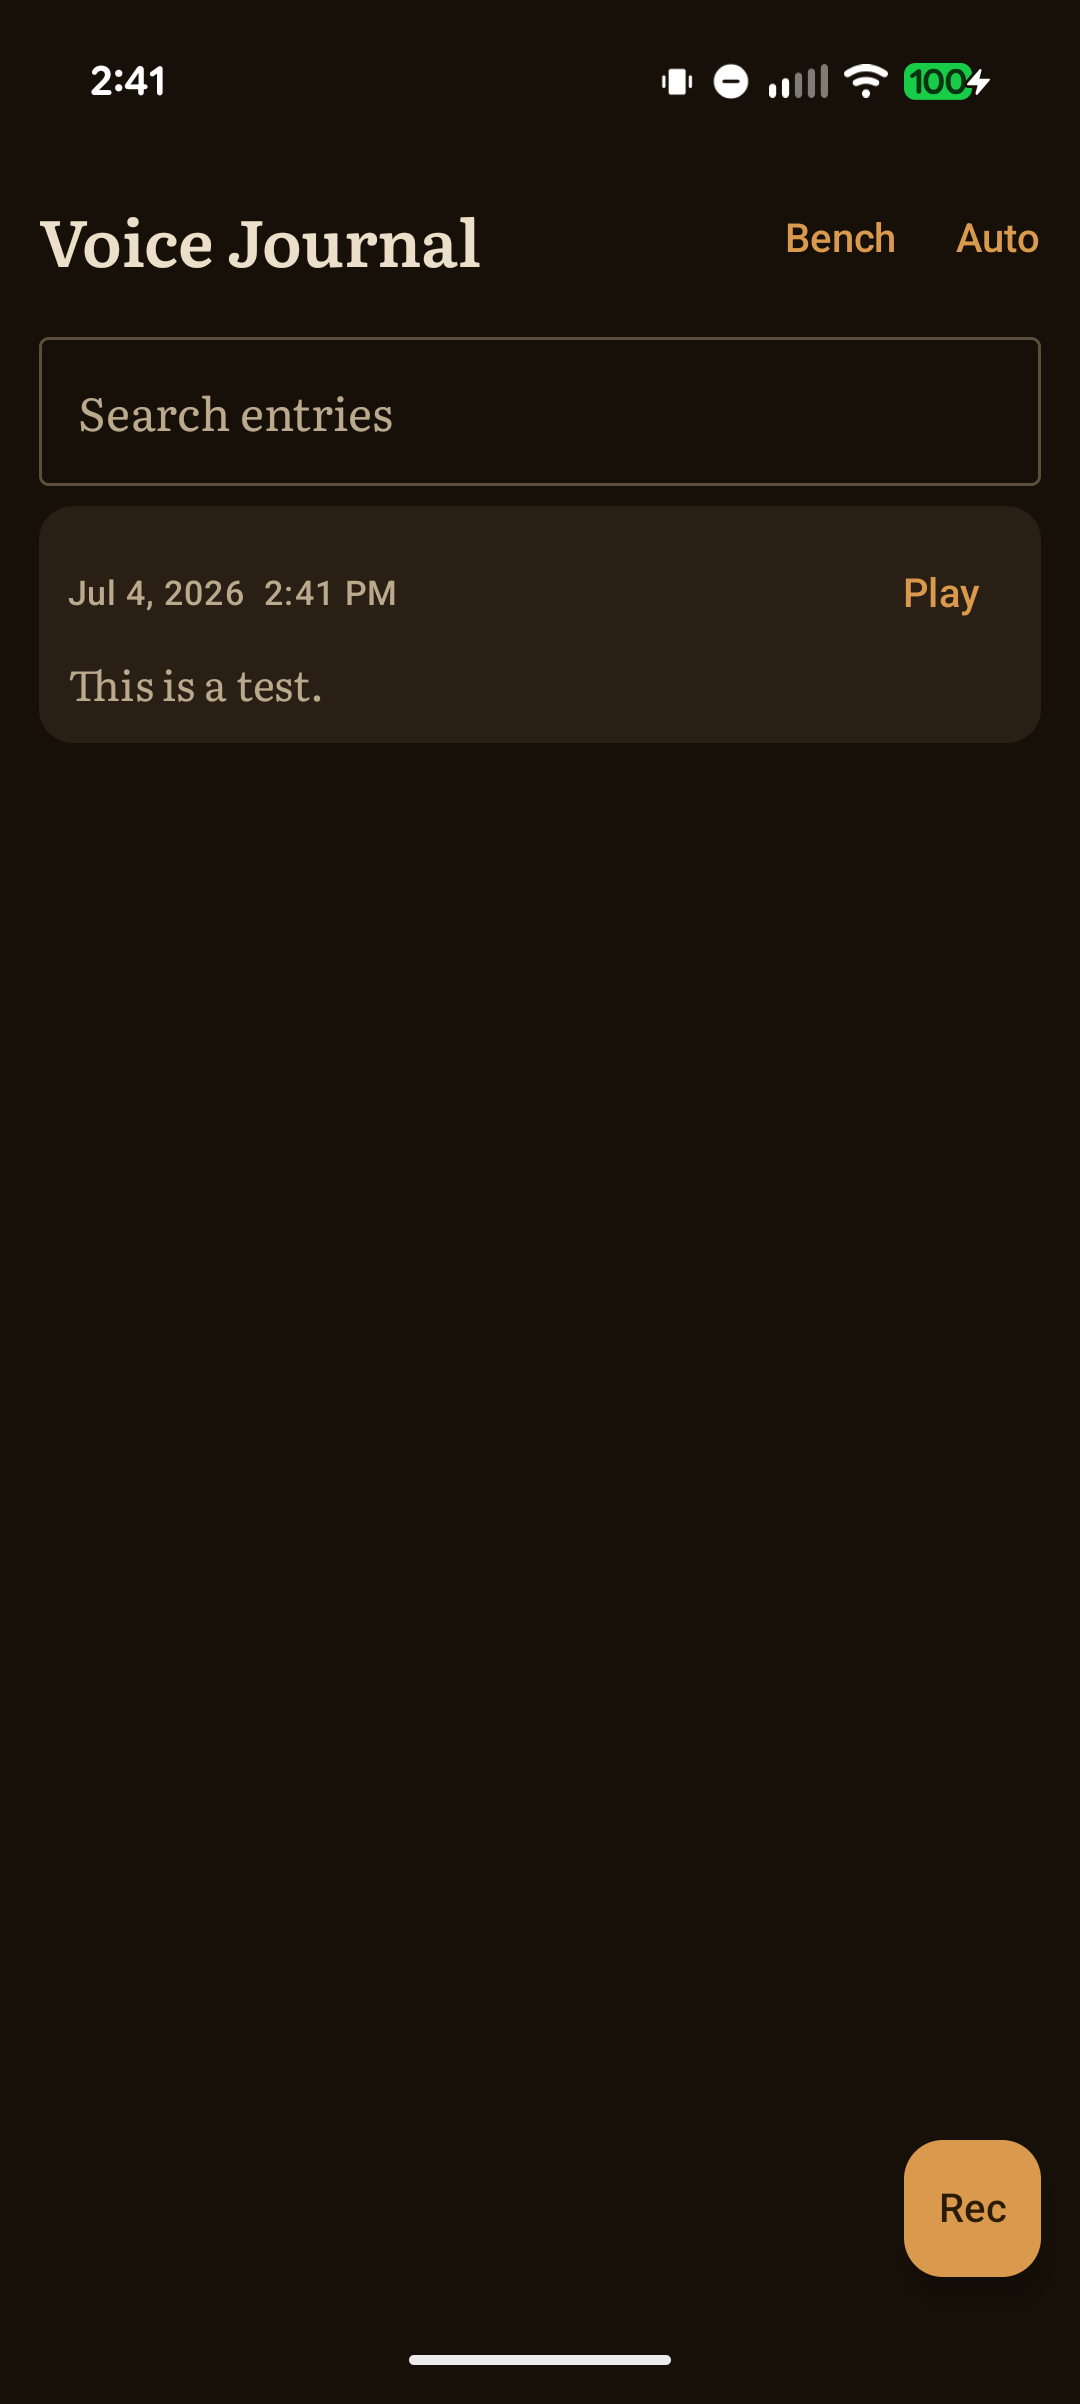
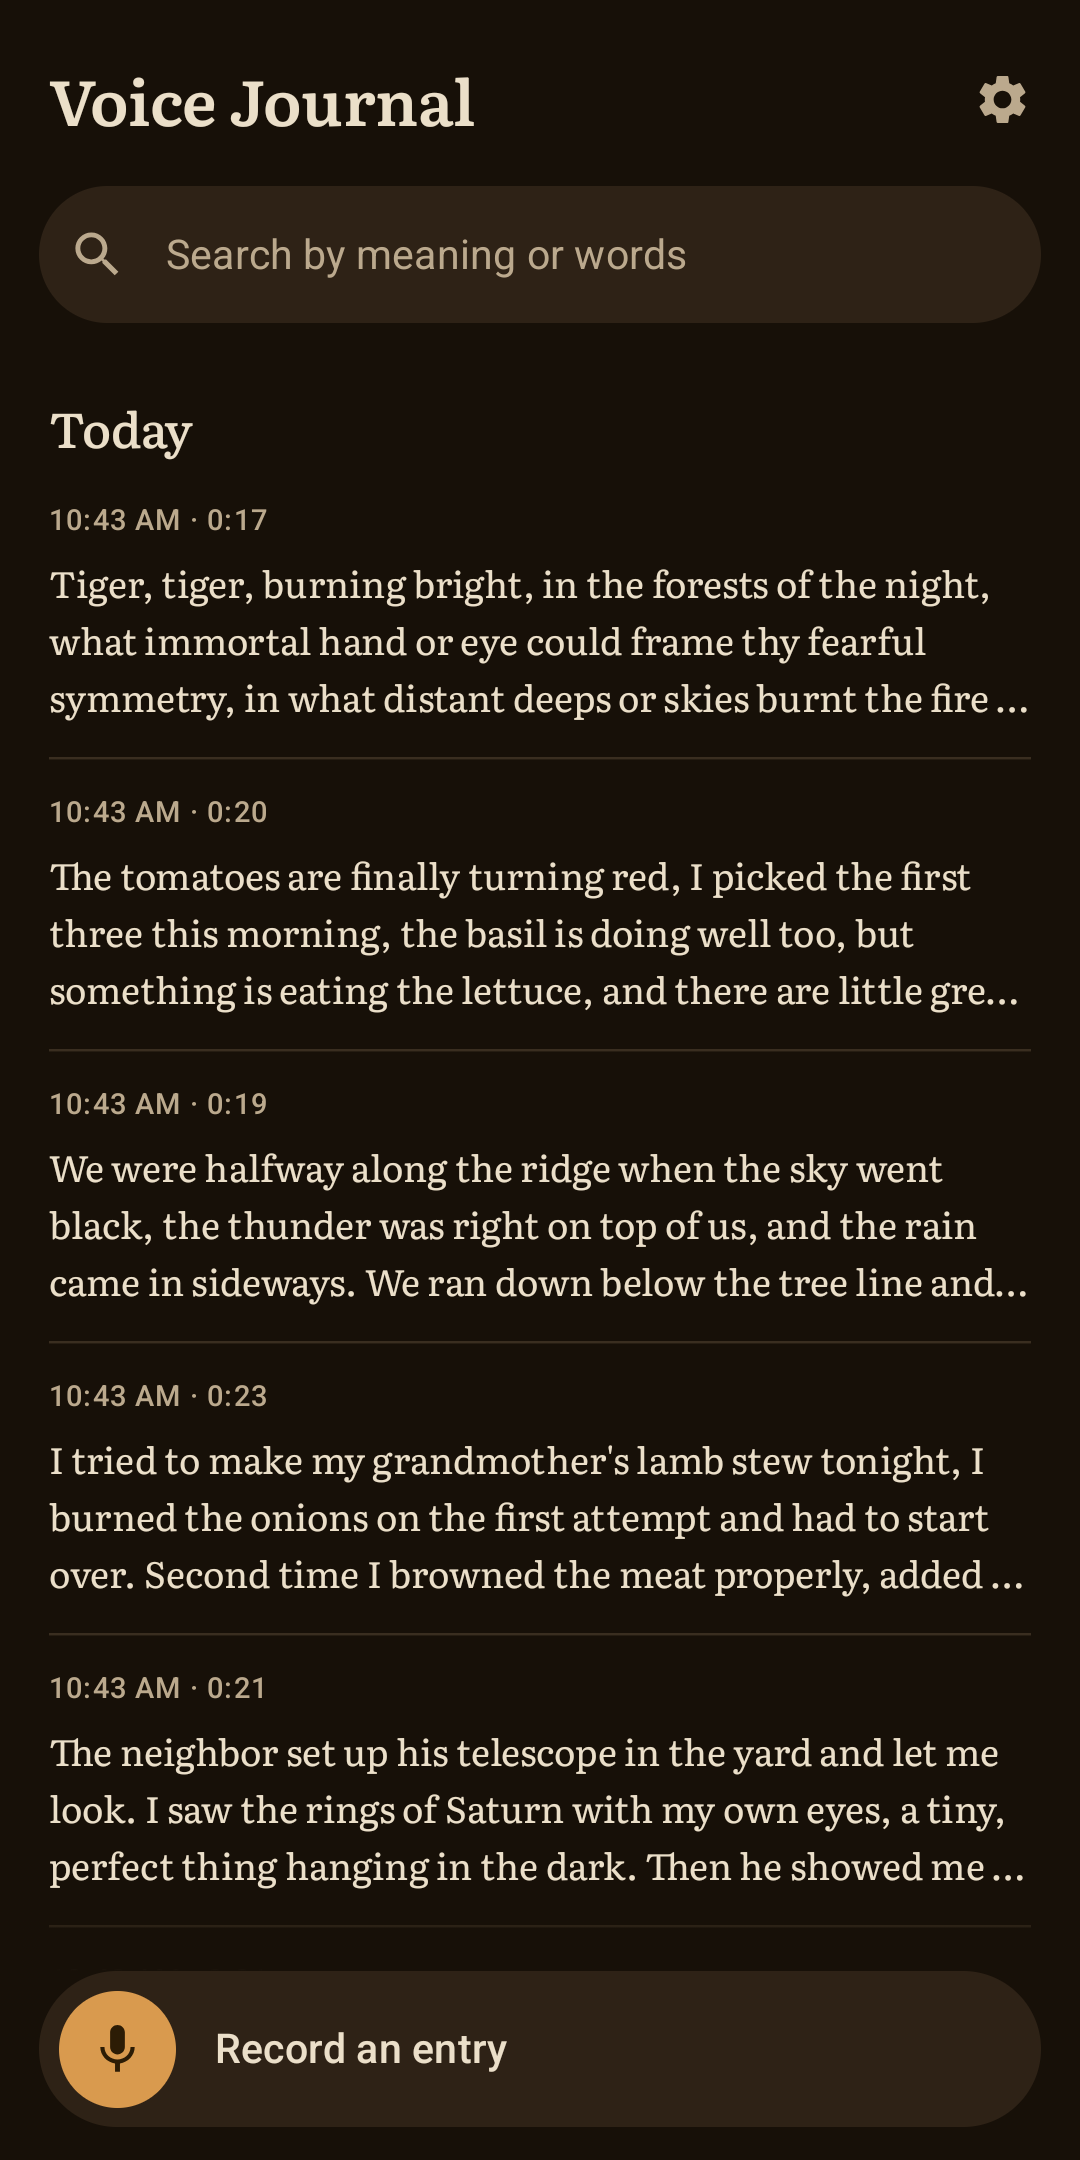
Add store listing, F-Droid recipe and publishing guide; make builds reproducible
Store listing (fastlane metadata, shared by F-Droid and Google Play): title,
descriptions, icon, feature graphic and four screenshots of the 1.1 UI. The
README screenshot is replaced with the current home screen.

docs/PUBLISHING.md walks through cutting the release, the F-Droid merge
request and the Play Console steps. docs/fdroid/ holds the recipe draft.

Reproducible builds: the native libraries embedded absolute source paths
(ggml's asserts use __FILE__), and ggml compiled in a git hash with a
"-dirty" suffix that depended on the state of the checkout. Paths are now
mapped away and the git lookup is hidden from ggml. Two builds of the same
tree in different directories now give byte-identical unsigned APKs. The
Google-encrypted dependency block is left out of the APK and bundle, which
F-Droid's scanner requires, and the short git hash in BuildConfig has a
fixed length.

CI: the emulator migration test failed with AbstractMethodError because
room-testing brings kotlinx-serialization 1.8.1 while the app under test
resolved serialization-core to 1.7.3. The debug build now uses 1.8.1; the
release classpath is unchanged.

Privacy page: restyled, dated for 1.1.0, and now states that the models
ship with the app and that the journal is excluded from Android backups.

diff --git a/docs/index.html b/docs/index.html
@@ -3,32 +3,59 @@
 <head>
   <meta charset="utf-8">
   <meta name="viewport" content="width=device-width, initial-scale=1">
+  <meta name="description" content="Privacy policy for Voice Journal, an offline voice diary for Android.">
   <title>Voice Journal — Privacy Policy</title>
   <style>
-    :root { color-scheme: light dark; }
+    :root {
+      color-scheme: light dark;
+      --bg: #F1E7D2; --fg: #2A2013; --muted: #6B5B45; --rule: #D9C9A8;
+      --card: #E7D9BC; --accent: #7A4F1F;
+    }
+    @media (prefers-color-scheme: dark) {
+      :root {
+        --bg: #171008; --fg: #EBDFC9; --muted: #A8997F; --rule: #3A2D1E;
+        --card: #2A1F14; --accent: #D99A4E;
+      }
+    }
     body {
-      font-family: -apple-system, BlinkMacSystemFont, "Segoe UI", Roboto, sans-serif;
+      font-family: Georgia, "Iowan Old Style", "Palatino Linotype", serif;
+      background: var(--bg);
+      color: var(--fg);
       max-width: 42rem;
       margin: 0 auto;
       padding: 2.5rem 1.25rem 4rem;
-      line-height: 1.6;
+      line-height: 1.65;
     }
-    h1 { font-size: 1.7rem; margin-bottom: 0.25rem; }
-    .updated { color: #888; font-size: 0.9rem; margin-top: 0; }
-    h2 { font-size: 1.15rem; margin-top: 2rem; }
+    h1 { font-size: 1.8rem; margin-bottom: 0.25rem; }
+    .updated { color: var(--muted); font-size: 0.9rem; margin-top: 0; }
+    .summary {
+      background: var(--card);
+      border-radius: 14px;
+      padding: 0.9rem 1.2rem;
+      margin: 1.5rem 0;
+    }
+    .summary ul { margin: 0; padding-left: 1.2rem; }
+    h2 {
+      font-size: 1.15rem;
+      margin-top: 2.2rem;
+      padding-top: 1.2rem;
+      border-top: 1px solid var(--rule);
+      color: var(--accent);
+    }
     code {
-      font-family: ui-monospace, SFMono-Regular, Menlo, monospace;
-      font-size: 0.9em;
+      font-family: ui-monospace, SFMono-Regular, Menlo, Consolas, monospace;
+      font-size: 0.85em;
       padding: 0.1em 0.35em;
       border-radius: 4px;
-      background: rgba(127,127,127,0.18);
+      background: var(--card);
+      overflow-wrap: anywhere;
     }
-    a { color: #6d5cf6; }
+    a { color: var(--accent); }
   </style>
 </head>
 <body>
   <h1>Voice Journal — Privacy Policy</h1>
-  <p class="updated">Last updated: October 21, 2026</p>
+  <p class="updated">Last updated: November 17, 2026 (version 1.1.0)</p>
 
   <p>
     Voice Journal is a fully offline application. It is built so that your
@@ -37,6 +64,15 @@
     <code>INTERNET</code> permission, so it is technically incapable of
     sending anything over a network.
   </p>
+
+  <div class="summary">
+    <ul>
+      <li>No internet permission, so nothing can be sent anywhere.</li>
+      <li>No accounts, ads, analytics or crash reporting.</li>
+      <li>Recording, transcription and search run on your phone.</li>
+      <li>Your journal leaves the phone only if you export it yourself.</li>
+    </ul>
+  </div>
 
   <h2>What we collect</h2>
   <p>
@@ -47,11 +83,17 @@
 
   <h2>Where your data lives</h2>
   <p>
-    Everything you create — audio recordings, transcripts, and their search
-    index — is stored only in the app's private storage on your device.
-    Recording, transcription, and search all run locally on the device using
-    on-device models. None of it is uploaded, backed up to a server, or made
-    accessible to anyone but you.
+    Everything you create — audio recordings, transcripts, and the search
+    index built from them — is stored only in the app's private storage on
+    your device. Recording, transcription and search all run locally. The
+    speech-recognition and search models are included in the app when you
+    install it; the app downloads nothing afterwards.
+  </p>
+  <p>
+    The journal is excluded from Android's cloud backup and from
+    device-to-device transfer, so it is not copied to a Google account or to
+    a new phone behind your back. The only way it moves is the export
+    described below.
   </p>
 
   <h2>Export and import</h2>
@@ -74,8 +116,9 @@
     anyone who gets the file can read and play it.
   </p>
   <p>
-    The app lock and "hide in recents" settings keep other people who are
-    holding your unlocked phone out of the journal. They do not encrypt the
+    The app lock and "Hide in recents" settings, both on by default, keep
+    other people who are holding your unlocked phone out of the journal and
+    block screenshots of it. They do not encrypt the
     journal on the device; there it is protected by Android's app sandbox
     and the device's own storage encryption.
   </p>
@@ -128,9 +171,11 @@
 
   <h2>Contact</h2>
   <p>
-    Questions about this policy or the app can be directed via the project
-    repository at
-    <a href="https://github.com/ZyrielZero/voice-journal">github.com/ZyrielZero/voice-journal</a>.
+    Questions about this policy or the app can be raised on the project's
+    <a href="https://github.com/ZyrielZero/voice-journal/issues">issue tracker</a>.
+    Voice Journal is free software; the
+    <a href="https://github.com/ZyrielZero/voice-journal">source code</a>
+    is public, so every statement on this page can be checked against it.
   </p>
 </body>
 </html>

diff --git a/docs/PUBLISHING.md b/docs/PUBLISHING.md
@@ -1,0 +1,112 @@
+# Publishing Voice Journal
+
+What has to happen to get a release onto F-Droid and Google Play, in order. The store
+listing itself (title, descriptions, changelog, icon, feature graphic, screenshots) lives
+in [`fastlane/metadata/android/en-US`](../fastlane/metadata/android/en-US) and is shared
+by both stores.
+
+## 1. Cut the release
+
+F-Droid reads the listing from the tagged source, so the fastlane metadata must be in the
+commit that gets tagged.
+
+1. Commit on `release-1.1`, merge into `main`, wait for CI to go green.
+2. `git tag v1.1.0 && git push origin v1.1.0`. The Release workflow builds the APK, checks
+   it is signed with the pinned certificate, and attaches `voice-journal-1.1.0.apk` to a
+   GitHub release.
+3. Note the full commit hash of the tag (`git rev-parse v1.1.0^{commit}`); the F-Droid
+   recipe needs it.
+
+## 2. F-Droid
+
+No fee, no testers. The recipe draft is
+[`docs/fdroid/dev.zyriel.voicejournal.yml`](fdroid/dev.zyriel.voicejournal.yml).
+
+1. Fork <https://gitlab.com/fdroid/fdroiddata> and copy the draft to
+   `metadata/dev.zyriel.voicejournal.yml`. Replace the `commit:` placeholder with the hash
+   from step 1.3.
+2. In the fork, run `fdroid lint dev.zyriel.voicejournal` and
+   `fdroid rewritemeta dev.zyriel.voicejournal`. The fork's own CI then does a full build;
+   that is the first real test of the recipe (see "Not yet verified" below).
+3. Open a merge request using the "App inclusion" template and answer its checklist.
+
+What the reviewers will ask about, and the answers:
+
+- **Models fetched at build time.** `scripts/fetch-models.sh` downloads four files from
+  Hugging Face at pinned commits and checks each against `scripts/models.sha256`. All are
+  MIT-licensed (whisper.cpp `base.en`, silero VAD, gte-base and its vocabulary). They are
+  listed under `scanignore` because the scanner flags `.bin` and `.onnx` files.
+- **ONNX Runtime** comes from Maven Central as a prebuilt AAR (MIT). Its manifest asks for
+  network access and registers a telemetry initializer; both are removed, and the build
+  fails if they come back (`verifyNoNetwork`).
+- **No anti-features.** No network, no tracking, no non-free dependencies.
+- **Reproducible build.** The recipe has `Binaries:` and `AllowedAPKSigningKeys:`, so
+  F-Droid builds from source, compares with the GitHub release APK, and publishes the APK
+  signed with this project's key. F-Droid, GitHub and Obtainium installs then update each
+  other. If their build does not match, delete those two lines: F-Droid will sign with its
+  own key and the app is still published, but F-Droid installs cannot cross-update with
+  GitHub ones.
+  Checked so far: two builds of the same tree in different directories on one machine
+  give byte-identical unsigned APKs. Not yet checked: a GitHub Actions build against an
+  F-Droid build, which also differ in OS image and SDK location.
+
+Not yet verified: the recipe passes `fdroid lint` and `rewritemeta`, but it has not been
+through a real F-Droid build. The `sudo` block (JDK 21) and the `sdkmanager` line (CMake)
+are the parts most likely to need adjusting to the current build server image.
+
+## 3. Google Play
+
+One-time setup: a developer account ($25, identity verification), and for a paid app a
+payments profile. A personal account created after 13 November 2023 must run a closed
+test with 12 testers opted in for 14 consecutive days before it can apply for production.
+
+1. **Create the app** (name "Voice Journal", app, paid or free: this cannot be changed
+   from free to paid later).
+2. **Signing.** When creating the first release, choose to use your own key for Play App
+   Signing and upload the existing release key. Otherwise Play signs with a key it
+   generates, and Play installs can never update to or from the GitHub and F-Droid builds.
+3. **Build the bundle** with the release keystore in place (`keystore.properties`):
+   `./gradlew bundleRelease`, then upload `app/build/outputs/bundle/release/app-release.aab`.
+   The bundle is about 172 MB. Play's limit is 200 MB of compressed download for the base
+   module and the Console shows the measured figure after upload; if it is over, the models
+   have to move into an install-time asset pack.
+4. **Store listing.** Paste from `fastlane/metadata/android/en-US`: `title.txt`,
+   `short_description.txt`, `full_description.txt`, `images/icon.png` (512 x 512),
+   `images/featureGraphic.png` (1024 x 500), `images/phoneScreenshots/*` (1080 x 2160).
+   Category: Productivity.
+5. **App content** answers:
+   - Privacy policy: the GitHub Pages copy of [`docs/index.html`](index.html).
+   - Ads: none.
+   - App access: all functionality is available without special access (no login; the app
+     lock uses the device's own screen lock).
+   - Data safety: no data collected, no data shared. Audio is processed on the device and
+     never transmitted, which Play does not count as collection.
+   - Content rating: utility/productivity, no user-to-user content.
+   - Target audience: 18 and over is the simplest truthful choice for a journal.
+   - Foreground service declarations, one per type, each with a short screen recording:
+     - `microphone`: the user taps Record; recording continues with the screen off, with
+       an ongoing notification and a Stop action.
+     - `mediaProcessing`: on launch, a recording that was interrupted (crash, call, full
+       disk) is transcribed on the device.
+     - `dataSync`: the same recovery on Android 14 and older, where the `mediaProcessing`
+       type does not exist. Nothing is synchronised. Expect questions on this one.
+6. **Closed test.** Create a closed testing track, add a Google Group or email list as
+   testers, publish the release to it, and share the opt-in link. Recruit 15 to 20 so a
+   dropout does not matter. Sources: tester-swap communities (r/AndroidClosedTesting),
+   privacy and FOSS communities, existing Obtainium users, friends.
+7. **Apply for production** after 14 days. The form asks how testers were recruited, what
+   feedback came in and what changed because of it; keep notes during the test.
+
+## 4. Android developer verification
+
+Google's developer verification programme covers apps installed outside Play as well.
+A verified Play Console account can register a package name and signing key; whether
+F-Droid and GitHub installs need that depends on the rules in force when you publish.
+Check them before relying on F-Droid alone.
+
+## Updating later
+
+- Each release: add `changelogs/<versionCode>.txt` (500 characters at most), bump
+  `versionCode` and `versionName`, tag. F-Droid picks up new `v*` tags by itself.
+- Screenshots were taken from the debug build with "Hide in recents" switched off and
+  cropped to 1080 x 2160 (Play rejects images taller than 2:1).
